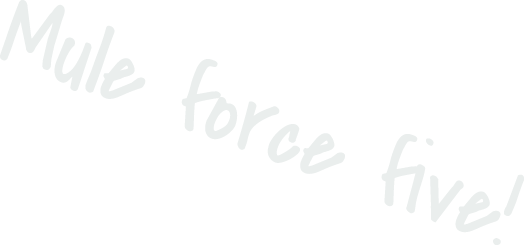
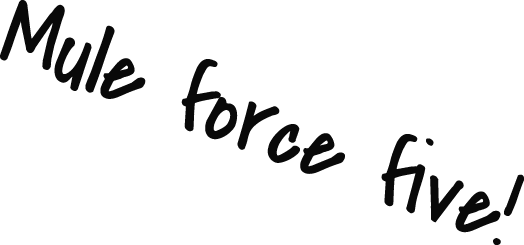
merge css files

diff --git a/public/css/application.css b/public/css/application.css
@@ -5,7 +5,7 @@ body {
 .container {
   margin: 20px auto;
   width: 600px;
-  padding: 80px 20px 20px 20px;
+  padding: 100px 20px 20px 20px;
   text-align: center;
 }
 th {
@@ -20,6 +20,110 @@ th {
 
 #muledeer_slogan {
 	position: absolute;
-	right:90px;
-	top:216px;
+	right:110px;
+	top:210px;
 }
+
+.sign_in {
+	background-color: white;
+	border-radius: 20px;
+	margin:30px auto;
+	width: 320px;
+}
+.sign_up {
+    background-color: white;
+	border-radius: 20px;
+	margin:30px auto;
+	width: 320px;
+}
+.wrapper {
+    background-color: white;
+	border-radius: 20px;
+	margin:30px auto;
+	/*width: 320px;*/
+}
+
+input[type=text]
+{
+    /*background-color: #BFBDBD;*/
+    background-color:rgba(255,0,0,0.0);
+    /*border:solid 1px #BFBDBD;*/
+    color: #555;
+    height: 54px;
+    padding-left:15px;
+    width: 305px;
+    /*box-shadow: 2px 2px 0 #828181 inset;*/
+    border: none;
+    text-align: left;
+    font-size: 1.1em;
+    border-top: 2px solid #888;
+}
+#first_form{
+	border:none;
+}
+
+input[type=password]
+{
+    /*background-color: #BFBDBD;*/
+    /*border:solid 1px #BFBDBD;*/
+    background-color:rgba(255,0,0,0.0);
+    color: #555;
+    height: 54px;
+    padding-left:15px;
+    width: 305px;
+    /*box-shadow: 2px 2px 0 #828181 inset;*/
+    border: none;
+    border-top: 2px solid #888;
+    text-align: left;
+    font-size: 1.1em;
+}
+
+input[type=submit]
+{
+    background-color: #111111;
+    color: #979797;
+    height: 50px;
+    width: 154px;
+    color: #eee;
+   	font-size: 1.1em;
+    /*text-transform:uppercase;*/
+    display: inline;
+    border: none;
+    margin:2px ;
+}
+
+.logout {
+	position:absolute;
+	right:40px;
+	top:0;
+}
+
+#answer {
+	width:100%;
+	border:none;
+	height:50px;
+}
+
+h3 {
+	text-align: center;
+	padding: 0;
+	margin: 0;
+}
+
+.navbar {
+	position: absolute;
+	width:100%;
+	height: 52px;
+	background-color: black;
+	top:0;
+	left:0;
+}
+
+.sign_in_button {
+	display: inline;
+}
+/*#nav_logo {
+	position: absolute;
+	left:100px;
+	top: 200px;
+}*/
